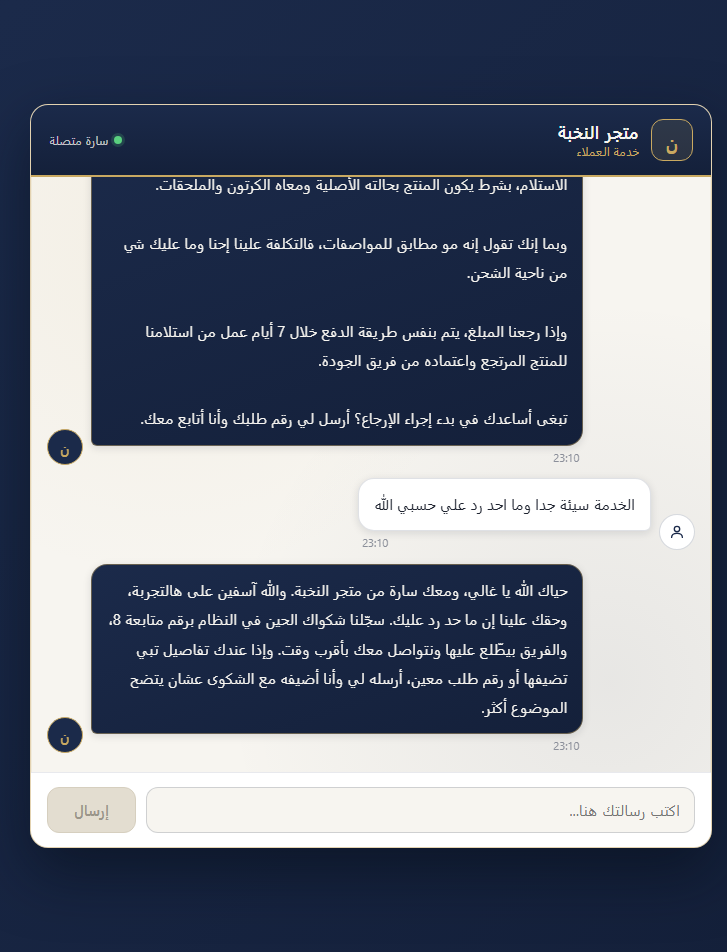
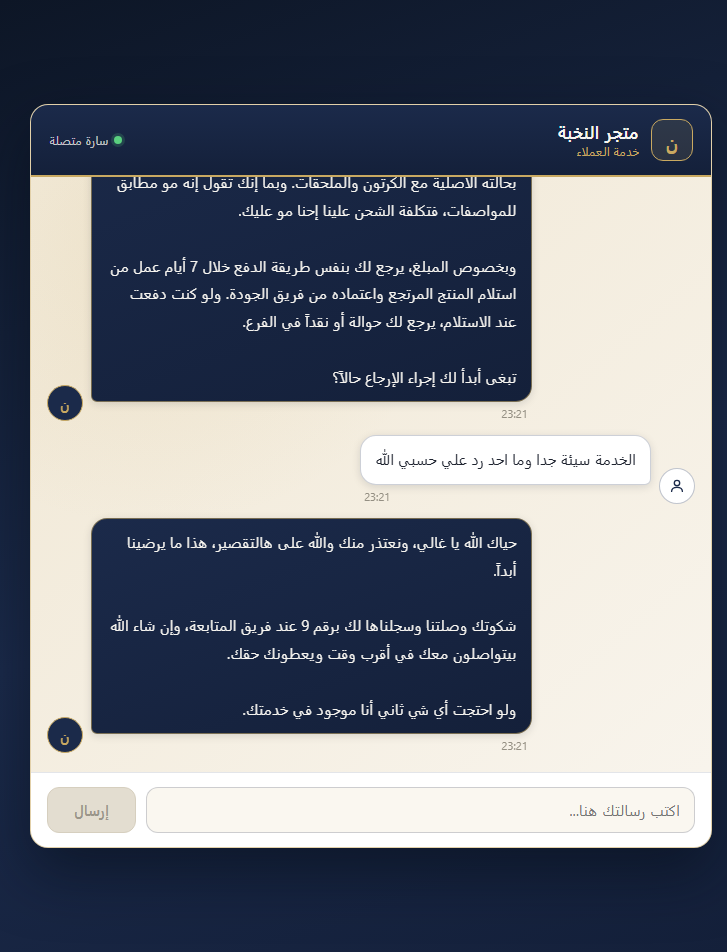
[Phase 6] Fix conversation-area contrast: light surface with the animated gradient inside it
Diagnosis (measurement-driven, not vision-tool description):
- Decoded the screenshot pixels: .chat-window really is cream (rgb(247,245,240)) and .chat-messages is transparent inheriting it, so there was no CSS-application bug. The real cause was the design: navy agent bubbles at 76% width with long replies covered nearly all the light surface, so the area read as entirely navy.

Fix (frontend/src/components/ChatWindow.css):
- .chat-messages now declares its own light background (#faf7f0) instead of inheriting it
- the animated gradient moved INTO the light chat body (@keyframes chatShimmer); the page is now a static navy frame rather than a second dark layer
- bubbles narrowed to 68%, tighter padding, stronger customer bubble border

Measured after the fix: conversation area is 47.5% light / 50.7% dark (previously navy-dominated); surface samples read #f7f2e7 and #f0e7d5. Agent bubbles remain navy-on-light-text as approved.

Re-ran the same real browser UI test: 4 messages -> 8 bubbles, reload -> 8 bubbles (history_matches true); fresh screenshot at docs/phase6_ui_screenshot.png

Changed region(s): [[0.0605, 0.1828, 0.9684, 0.792], [0.0, 0.0, 0.5447, 0.1523]]

diff --git a/frontend/src/components/ChatWindow.css b/frontend/src/components/ChatWindow.css
@@ -1,12 +1,18 @@
 /* Phase 6 visual theme — "متجر النخبة" (deep navy + gold).
-   CSS/JSX only: no new dependencies. */
+   CSS/JSX only: no new dependencies.
+
+   Contrast contract:
+   - the page is a dark navy FRAME (static gradient),
+   - the chat body is a LIGHT warm surface with its own slow animated gradient,
+   - navy is used for the header and for the agent's bubbles (light text inside). */
 
 :root {
   --elite-navy: #1b2a4a;
   --elite-navy-dark: #14203a;
-  --elite-navy-deep: #0d1626;
   --elite-gold: #c9a961;
   --elite-gold-bright: #e0c583;
+  --elite-surface: #faf7f0;
+  --elite-surface-tint: #f1ead9;
   --elite-cream: #f7f5f0;
   --elite-ink: #1f2430;
 }
@@ -17,15 +23,8 @@
   align-items: center;
   justify-content: center;
   padding: 24px 16px;
-  background: linear-gradient(135deg, #0d1626, #1b2a4a, #14203a, #0d1626, #1b2a4a);
-  background-size: 400% 400%;
-  animation: gradientShift 28s ease infinite;
-}
-
-@keyframes gradientShift {
-  0% { background-position: 0% 50%; }
-  50% { background-position: 100% 50%; }
-  100% { background-position: 0% 50%; }
+  /* Static frame: the animation lives inside the light chat body, not here. */
+  background: linear-gradient(160deg, #0d1626, #1b2a4a 55%, #14203a);
 }
 
 .chat-window {
@@ -36,8 +35,8 @@
   flex-direction: column;
   overflow: hidden;
   border-radius: 18px;
-  background: var(--elite-cream);
-  border: 1px solid rgba(201, 169, 97, 0.45);
+  background: var(--elite-surface);
+  border: 1px solid rgba(201, 169, 97, 0.5);
   box-shadow: 0 24px 60px rgba(6, 12, 24, 0.55), 0 0 0 1px rgba(201, 169, 97, 0.12) inset;
 }
 
@@ -102,7 +101,7 @@
   box-shadow: 0 0 0 3px rgba(90, 208, 127, 0.18);
 }
 
-/* ---------- messages ---------- */
+/* ---------- messages (light surface, animated gradient lives HERE) ---------- */
 
 .chat-messages {
   flex: 1;
@@ -111,15 +110,24 @@
   display: flex;
   flex-direction: column;
   gap: 14px;
-  background-image: radial-gradient(circle at 20% 10%, rgba(201, 169, 97, 0.08), transparent 45%),
-    radial-gradient(circle at 85% 85%, rgba(27, 42, 74, 0.07), transparent 50%);
+  background-color: var(--elite-surface);
+  background-image: radial-gradient(circle at 18% 6%, rgba(201, 169, 97, 0.14), transparent 40%),
+    linear-gradient(140deg, #faf7f0 0%, #f2ead9 25%, #f8f4ec 50%, #edeff5 75%, #faf7f0 100%);
+  background-size: auto, 320% 320%;
+  animation: chatShimmer 30s ease-in-out infinite;
+}
+
+@keyframes chatShimmer {
+  0% { background-position: 0% 0%, 0% 50%; }
+  50% { background-position: 0% 0%, 100% 50%; }
+  100% { background-position: 0% 0%, 0% 50%; }
 }
 
 .chat-empty {
   margin: auto;
   max-width: 260px;
   text-align: center;
-  color: #7a7f8c;
+  color: #8a8578;
   font-size: 14px;
   line-height: 1.9;
 }
@@ -164,7 +172,7 @@
 
 .chat-avatar-customer {
   background: #ffffff;
-  border: 1px solid rgba(27, 42, 74, 0.18);
+  border: 1px solid rgba(27, 42, 74, 0.28);
   color: var(--elite-navy);
 }
 
@@ -174,10 +182,11 @@
   color: var(--elite-gold);
 }
 
+/* Narrower than before: the light surface stays the dominant surface. */
 .chat-bubble-wrap {
   display: flex;
   flex-direction: column;
-  max-width: 76%;
+  max-width: 68%;
   gap: 4px;
 }
 
@@ -190,32 +199,32 @@
 }
 
 .chat-bubble {
-  padding: 11px 15px;
+  padding: 10px 14px;
   border-radius: 16px;
   font-size: 15px;
-  line-height: 1.95;
+  line-height: 1.85;
   white-space: pre-wrap;
   word-break: break-word;
-  box-shadow: 0 2px 8px rgba(15, 22, 38, 0.12);
+  box-shadow: 0 2px 8px rgba(15, 22, 38, 0.13);
 }
 
 .chat-bubble-customer {
   background: #ffffff;
   color: var(--elite-ink);
-  border: 1px solid rgba(27, 42, 74, 0.14);
+  border: 1px solid rgba(27, 42, 74, 0.22);
   border-bottom-right-radius: 6px;
 }
 
 .chat-bubble-agent {
   background: linear-gradient(160deg, var(--elite-navy), var(--elite-navy-dark));
   color: var(--elite-cream);
-  border: 1px solid rgba(201, 169, 97, 0.45);
+  border: 1px solid rgba(201, 169, 97, 0.55);
   border-bottom-left-radius: 6px;
 }
 
 .chat-time {
   font-size: 11px;
-  color: #8b8f9a;
+  color: #948f83;
   padding-inline: 4px;
 }
 
@@ -229,10 +238,10 @@
   border-radius: 16px;
   border-bottom-left-radius: 6px;
   background: linear-gradient(160deg, var(--elite-navy), var(--elite-navy-dark));
-  border: 1px solid rgba(201, 169, 97, 0.45);
-  color: rgba(247, 245, 240, 0.9);
+  border: 1px solid rgba(201, 169, 97, 0.55);
+  color: rgba(247, 245, 240, 0.92);
   font-size: 13px;
-  box-shadow: 0 2px 8px rgba(15, 22, 38, 0.12);
+  box-shadow: 0 2px 8px rgba(15, 22, 38, 0.13);
 }
 
 .chat-dots {
@@ -273,7 +282,7 @@
   gap: 10px;
   padding: 14px 16px;
   background: #ffffff;
-  border-top: 1px solid rgba(27, 42, 74, 0.1);
+  border-top: 1px solid rgba(27, 42, 74, 0.12);
 }
 
 .chat-form input {
@@ -282,8 +291,8 @@
   font-size: 15px;
   font-family: inherit;
   color: var(--elite-ink);
-  background: var(--elite-cream);
-  border: 1.5px solid rgba(27, 42, 74, 0.18);
+  background: var(--elite-surface);
+  border: 1.5px solid rgba(27, 42, 74, 0.2);
   border-radius: 12px;
   outline: none;
   transition: border-color 0.18s ease, box-shadow 0.18s ease;
@@ -323,7 +332,7 @@
 }
 
 @media (prefers-reduced-motion: reduce) {
-  .chat-page { animation: none; }
+  .chat-messages { animation: none; }
   .chat-row { animation: none; }
   .chat-dots span { animation: none; }
 }

diff --git a/PROGRESS.md b/PROGRESS.md
@@ -68,6 +68,11 @@
 39. **Phase 6 — إعادة تصميم بصري (CSS/JSX فقط، بلا مكتبات)**: ملف جديد `frontend/src/components/ChatWindow.css` (الكحلي `#1B2A4A` أساسي والذهبي `#C9A961` لون مميز)، خلفية متدرجة متحركة عبر `@keyframes`، فقاعات بزوايا أنعم وظلال، صورة رمزية لكل جهة (أيقونة عميل SVG مضمّنة + حرف «ن» للوكيل)، ظهور تدريجي للرسائل (`bubbleIn`)، مؤشر كتابة متحرك، شعار وحالة اتصال في الترويسة، ووقت مختصر تحت كل فقاعة. `index.css` اختُصر إلى تهيئة أساسية لتفادي تعارض الأنماط القديمة.
    - **ملاحظة قرار صغير:** نص مؤشر الكتابة نُفِّذ «سارة تكتب…» بدل «…يكتب» لأن الوكيلة أنثى (سارة) والصيغة المذكّرة تبدو خطأً نحوياً. قابل للتغيير بطلب صاحب المشروع.
    - **الوقت تحت الفقاعة:** الرسائل الجديدة تأخذ وقتاً محلياً، والرسائل المُحمَّلة من السجل تأخذ وقتها من `chat_messages` — بنفس الصيغة `YYYY-MM-DD HH:MM:SS`.
+40. **Phase 6 — إصلاح تباين منطقة المحادثة (بمراجعة صاحب المشروع، بتشخيص قائم على قياس فعلي)**:
+   - **التشخيص الصحيح:** لم يكن هناك خلل في تطبيق الأنماط — القياس أظهر أن `.chat-window` فعلاً كريمي (`rgb(247,245,240)`) و`.chat-messages` شفاف يرثه. المشكلة كانت **في التصميم**: فقاعات الوكيل الكحلية بعرض 76% ونصوص طويلة كانت تغطي معظم السطح الفاتح، فتبقى الكريمي هوامش رفيعة فقط → المنطقة تُقرأ ككحلية بالكامل. (كان أول تقرير لي معتمداً على وصف أداة الرؤية، وقد كان **مضلِّلاً** — الاعتماد صار على **فك ترميز بكسلات اللقطة** وقياس نسب الإضاءة.)
+   - **الإصلاح:** خلفية فاتحة صريحة لمنطقة الرسائل (`#faf7f0`) + **نقل التدرّج المتحرك ليصير داخل منطقة المحادثة الفاتحة** (`@keyframes chatShimmer` على `.chat-messages`) بدل أن يكون طبقة كحلية على الصفحة (الصفحة صارت إطاراً كحلياً ثابتاً)، وتضييق الفقاعات إلى 68% وتخفيف الحشو، وتقوية حدود فقاعة العميل.
+   - **التحقق العددي بعد الإصلاح:** منطقة المحادثة = **47.5% فاتح / 50.7% غامق** (لم تعد كحلية بالكامل)، و`messages_bg_right = #f7f2e7` و`messages_bg_left = #f0e7d5` (سطوح فاتحة واضحة)، مع بقاء فقاعات الوكيل كحلية بنص فاتح كما اعتمد صاحب المشروع.
+   - **ملاحظة صريحة:** ما زال نحو نصف المساحة كحلياً لأن ردود الوكيل طويلة وفقاعاته كحلية بقرار معتمد. إن أراد صاحب المشروع مزيداً من الإشراق فالخيار المتاح هو تفتيح تعبئة فقاعة الوكيل (كحلي أفتح) — لم يُنفَّذ لأنه يخالف قرار «تبقى الفقاعة كحلية».
 
 ## قائمة المنتجات المعتمدة (مرجع نهائي)
 
@@ -147,4 +152,5 @@
 - 2026-09-11 — Phase 5: إصلاح استهلاك الذاكرة (خيار 2+3)، 5 اختبارات جديدة (المجموع **68/68**)، وإعادة الاختبار الحقيقي تؤكد استرجاع `order_id=1002` في الدورة الثانية بلا تكرار.
 - 2026-09-11 — Phase 5: حظر اختلاق الأرقام/المدد في `SYSTEM_PROMPT` + مثال رفض ثالث؛ إعادة اختبار الرسالة الثالثة تؤكد الاعتراف بغياب المعلومة بلا أي رقم (مُتحقَّق بـ grep). توثيق سلوك الحالة في ADR 8.1/8.2. commit/push `[Phase 5]`.
 - 2026-09-11 — Phase 6: `GET /api/history/<session_id>` + واجهة React كاملة، 71/71 اختبار، **اختبار واجهة حقيقي في Chrome** (4 رسائل ← 8 فقاعات، وإعادة التحميل تعيد السجل كاملاً) ولقطة شاشة في `docs/`. اكتُشف وأُصلح سباق زمني في تحميل السجل. commit/push `[Phase 6]` (`fe61d2d`).
-- 2026-09-11 — Phase 6 (مراجعة صاحب المشروع): حظر تنسيق Markdown في `SYSTEM_PROMPT` (تحقق فعلي: 0 من 8 ردود تحتوي أي رمز Markdown)، وإعادة تصميم بصري كحي/ذهبي (CSS فقط، بلا مكتبات). لقطة جديدة + إعادة اختبار الواجهة بنجاح. commit/push. بانتظار الإذن للانتقال إلى Phase 7.
+- 2026-09-11 — Phase 6 (مراجعة صاحب المشروع): حظر تنسيق Markdown في `SYSTEM_PROMPT` (تحقق فعلي: 0 من 8 ردود تحتوي أي رمز Markdown)، وإعادة تصميم بصري كحي/ذهبي (CSS فقط، بلا مكتبات). لقطة جديدة + إعادة اختبار الواجهة بنجاح. commit/push.
+- 2026-09-11 — Phase 6 (ملاحظة صاحب المشروع على لقطة الشاشة): تشخيص مبني على فك ترميز بكسلات اللقطة (لا على وصف أداة الرؤية): لم يكن خللاً في الأنماط بل في التوازن البصري. الإصلاح: خلفية فاتحة صريحة لمنطقة الرسائل + نقل التدرّج المتحرك داخلها + تضييق الفقاعات. القياس بعد الإصلاح: 47.5% فاتح / 50.7% غامق. لقطة جديدة + إعادة اختبار الواجهة. commit/push `[Phase 6]`. بانتظار الإذن للانتقال إلى Phase 7.
